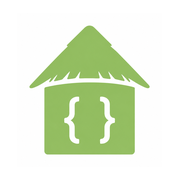
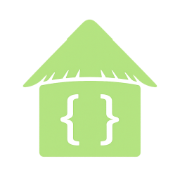
feat: add draft previews and release polish

diff --git a/README.md b/README.md
@@ -96,6 +96,10 @@ terbaru, dan seluruh kontributor unik setiap artikel, lalu menulis hasilnya ke
 `src/data/blog-posts.json`. Halaman artikel menautkan commit terbaru tersebut
 agar riwayat sumber dapat diperiksa langsung.
 
+Artikel berstatus `draft` tetap dibangun pada URL `/blog/preview/{slug}/`,
+tetapi tidak ditampilkan di indeks blog, tidak masuk sitemap, dan memakai
+`noindex, nofollow, noarchive` sampai statusnya diterbitkan.
+
 ## Auto Sync
 
 Workflow `.github/workflows/sync-content.yml` memperbarui data secara otomatis.